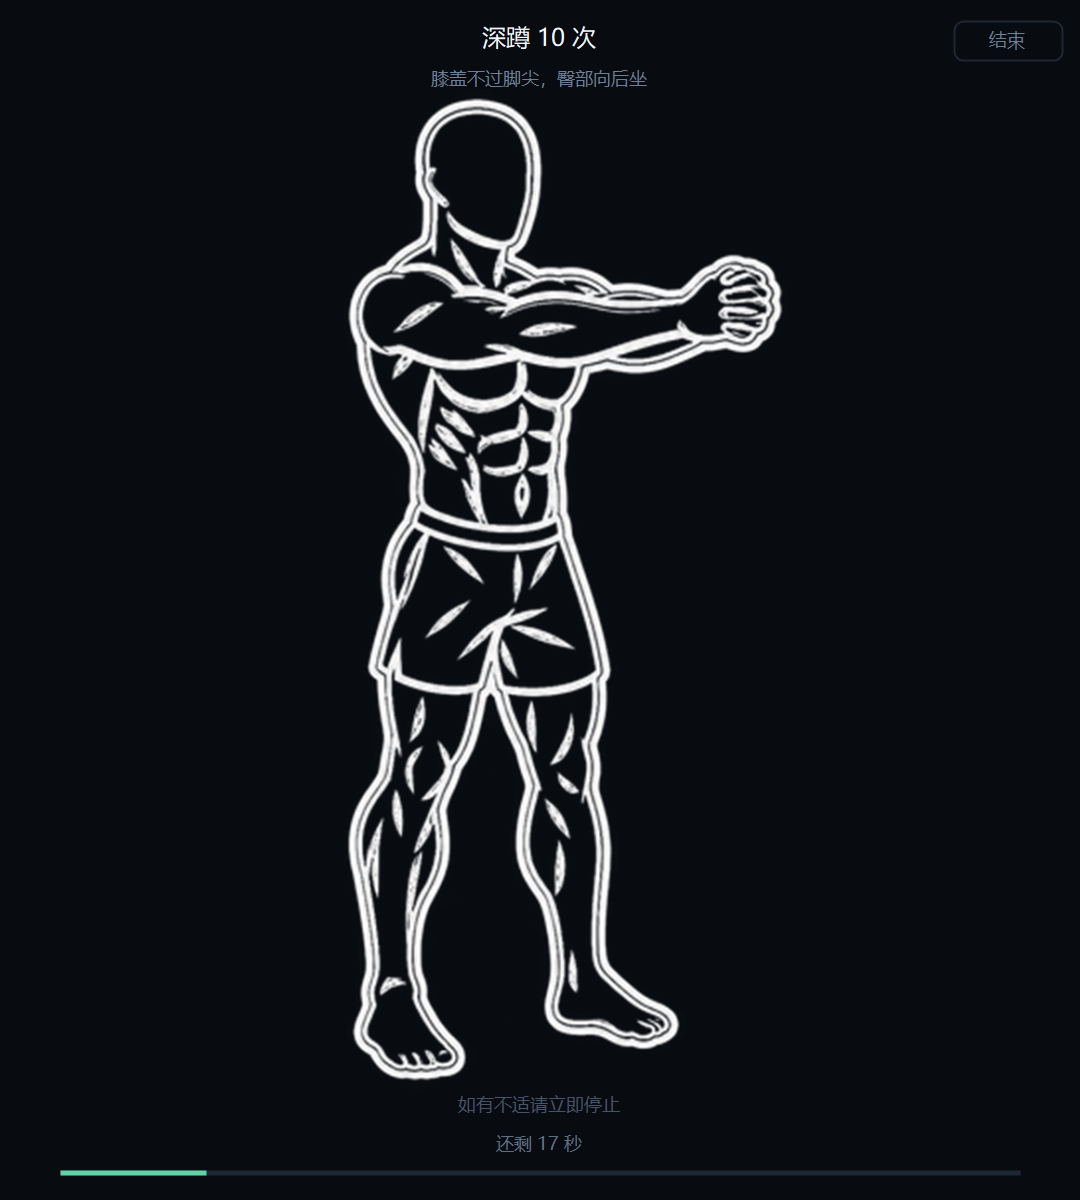
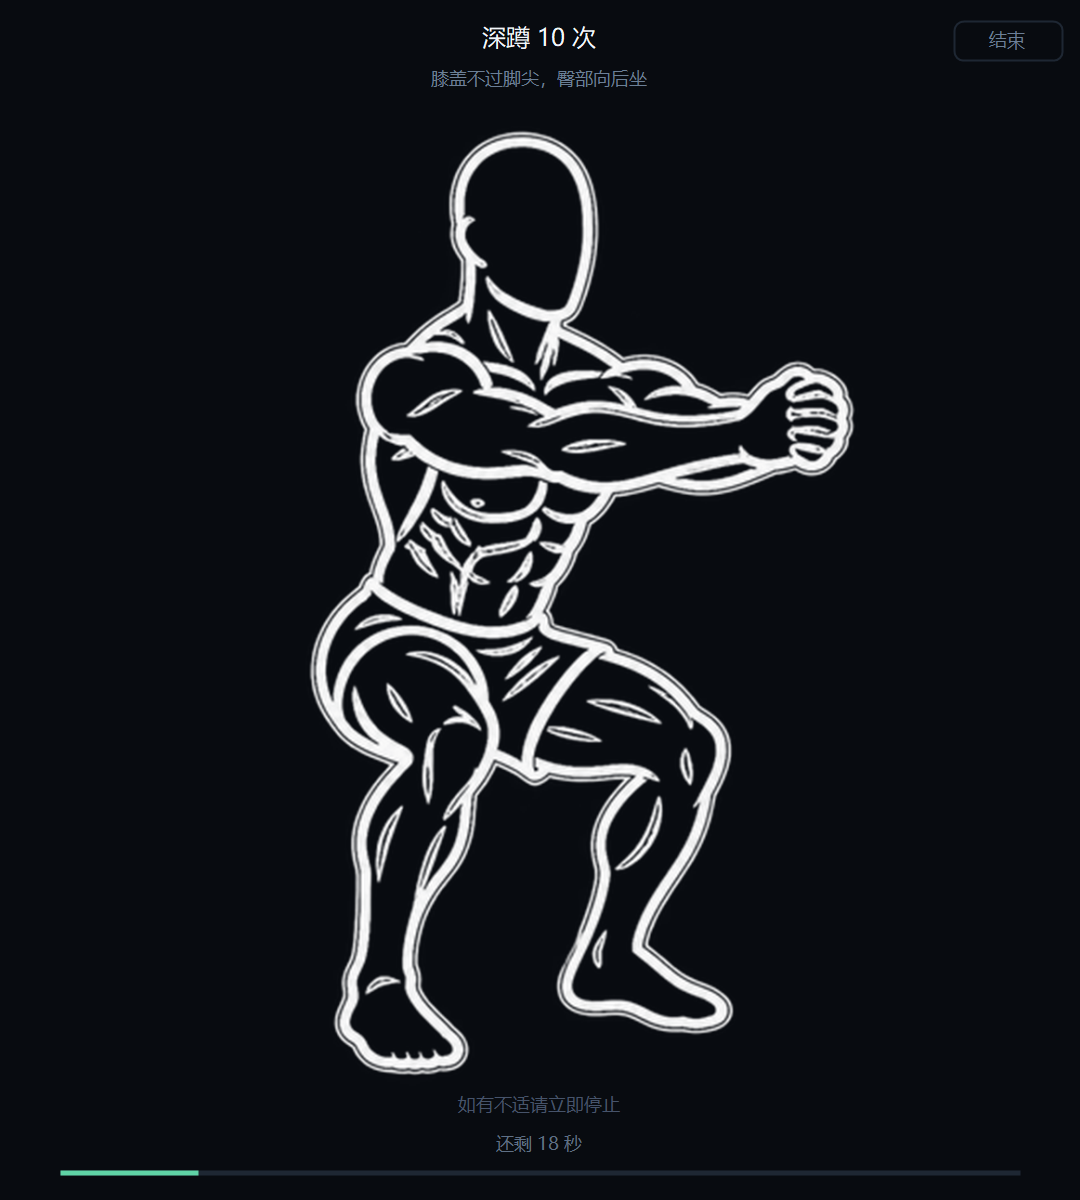
fix(move): 自绘人形按"身高比例"重做，修掉放大后"大球挂牙签"的观感
放大到 2 倍后自绘人形的比例崩了（用户/lead 截图反馈）：
  头部直径 ≈ 150px（占身高 15%）、肩宽 0、髋宽 0、线宽只有 7px ——
  观感是"一个巨大的圆球挂在几根牙签上"。
根因：各段长度是**固定像素**（torso 78 / thigh 70 / headR 22…），
按窗口高度放大 2.4 倍时头也跟着放大，而线宽只是从 3px 到 7px，两者不同步。

改法：把人体比例也做成"单一来源"——全部以身高 H 为基准（与纵向布局同一套思路）：
  头直径 H×0.13（约 7.5 头身）、颈 H×0.04、肩宽 H×0.055（半距）、
  髋宽 H×0.035（半距）、躯干 H×0.32、上臂 H×0.155、前臂 H×0.145、
  大腿 H×0.245、小腿 H×0.235、线宽 H×0.018、关节半径 H×0.012。
  合计 0.48+0.32+0.04+0.13 = 0.97 → 头顶留 3% 余量，永远在要点文字下方。

新增的形体（原来根本没有）：
  · **左右肩点**：两臂各从自己的肩点出发，中间连一条肩宽线；
  · **左右髋点**：两腿各从自己的髋点出发，中间连一条髋宽线；
  · **颈**：肩点 → 头下缘的一段。
  这三条让"三点一线"变成"有肩有髋"，是这次观感变化的主要来源。

顺带：LayoutBottomChrome 80 → 84。线宽现在按身高走，脚底那一笔有 ~8px 半宽，
80 会让脚压到「如有不适请立即停止」那行（实测提示行区间出现白像素）。

实测（EyeLite-dev.exe，PrintWindow，1080x1200）：
  自绘  人形 y=130..1082 高 952 = **79.3%** ｜ 头顶距要点 34px ｜
        **头部直径 125px = 13.2% 身高**（目标 13%）｜ 提示行白像素 **0**
  素材  深蹲帧 77.3%（下蹲帧本来矮），脚距地面 7px
  两条路径站立高度接近；肩宽 104px、髋宽 66px（都是 H 的固定比例）

证据：docs/screenshots/_size-2x-drawn.png（自绘）、_size-2x-asset.png（素材）已覆盖更新

产物：EyeLite.exe 未重编（用户在跑），只出 dev 版验证

Changed region(s): [[0.275, 0.0617, 0.7944, 0.925]]

diff --git a/src/Program.cs b/src/Program.cs
@@ -2914,7 +2914,9 @@ namespace EyeLite
         // （这个坑 720x640 那次已经踩过一次：地面从 Sc(316) 挪到 Sc(512)，提示行留在 Sc(392) 压住了腿）。
         private const int LayoutTipsBottom = 64;   // 要点文字底边（标题 14..42 + 要点 44..64）
         private const int LayoutFigTop = 66;       // 人形可用上边界：要点下面 2px
-        private const int LayoutBottomChrome = 80; // 地面线到底边：提示(18)+倒计时(18)+进度条(6)+间距
+        private const int LayoutBottomChrome = 84; // 地面线到底边：提示(18)+倒计时(18)+进度条(6)+间距
+                                                   // 88 而不是 80：人形线宽现在按身高走（18%），
+                                                   // 脚底那笔有 ~8px 半宽，80 会让脚压到「如有不适」那行。
 
         /// <summary>脚底的 y（"地面线"）。</summary>
         // 人形缩放系数：由 DrawFigure 每次绘制前按可用高度算出来，
@@ -3435,24 +3437,38 @@ namespace EyeLite
             int cx = w / 2;
             int groundY = FigGroundY();
 
-            // 人物总高 = 地面线 - 人物上边界（见 FigGroundY/FigHeight）。
-            // 基准模型在中立姿势下的总高 = 268 逻辑像素：
-            //   thigh 70 + shin 70 + torso 78 + 头直径 44 + 颈缝 6 = 268
-            // 各段统一乘 k，所以"窗口多高人形多高"；不再写死任何一段长度。
-            int figH = FigHeight();
-            double k = figH / (double)Sc(268);
-            if (k < 0.2) k = 0.2;
-            figK = k;
+            // ============================================================
+            // 人体比例：全部以「身高 H」为基准（单一来源），不再写死像素段长。
+            // ============================================================
+            //
+            // 为什么必须这样改：原来各段是固定像素（torso 78 / thigh 70 / headR 22…），
+            // 按窗口高度放大 2.4 倍后，头变成 150px，而线宽只从 3px 到 7px ——
+            // 观感就是「一个大球挂在几根牙签上」。素材图看着正常，正因为它自带真实比例。
+            //
+            // 系数按「约 7.5 头身」定：头占身高 13%、腿 48%、躯干 32%、颈 4%，
+            // 合计 0.97 → 头顶留 3% 余量，保证头顶永远在要点文字下方。
+            int H = FigHeight();
+            if (H < 40) H = 40;
 
-            int lenTorso = Sf(78);
-            int lenArm = Sf(56);
-            int lenFore = Sf(48);
-            int lenThigh = Sf(70);
-            int lenShin = Sf(70);
-            int headR = Sf(22);
+            int headR = (int)Math.Round(H * 0.065);        // 头直径 = 13% 身高
+            int neckLen = (int)Math.Round(H * 0.04);       // 颈
+            int halfShoulder = (int)Math.Round(H * 0.055); // 肩宽半距
+            int halfHip = (int)Math.Round(H * 0.035);      // 髋宽半距
+            int lenTorso = (int)Math.Round(H * 0.32);
+            int lenArm = (int)Math.Round(H * 0.155);
+            int lenFore = (int)Math.Round(H * 0.145);
+            int lenThigh = (int)Math.Round(H * 0.245);
+            int lenShin = (int)Math.Round(H * 0.235);
 
-            // 下蹲：髋往下沉、膝盖往前顶。用两条腿的关节角度表达会更"真"，
-            // 但对火柴人来说"髋高 + 膝点偏移"就足够读懂，且不会算错。
+            // 线宽 / 关节尺寸也按身高走：放 2 倍时线要跟着粗，否则像铁丝
+            float penW = Math.Max(1.5f, (float)(H * 0.018));
+            float jointR = Math.Max(2f, (float)(H * 0.012));
+
+            // Sf() 供 DrawLeg 里的抬腿/外展偏移使用，基准同步成身高
+            figK = H / (double)Sc(268);
+            if (figK < 0.2) figK = 0.2;
+
+            // 下蹲：髋往下沉，位移量按腿长比例
             int crouchPx = (int)(lenThigh * 0.34 * p.Crouch);
             PointF hip = new PointF(cx, groundY - lenThigh - lenShin + crouchPx);
 
@@ -3461,17 +3477,26 @@ namespace EyeLite
                 (float)(hip.X + Math.Sin(torsoRad) * lenTorso),
                 (float)(hip.Y - Math.Cos(torsoRad) * lenTorso));
 
+            // 头：肩点沿躯干轴再往上「颈 + 半个头」
             PointF head = new PointF(
-                (float)(shoulder.X + Math.Sin(torsoRad) * (headR + Sf(6)) + p.HeadSway * Sf(14)),
-                (float)(shoulder.Y - Math.Cos(torsoRad) * (headR + Sf(6))));
+                (float)(shoulder.X + Math.Sin(torsoRad) * (neckLen + headR) + p.HeadSway * H * 0.02),
+                (float)(shoulder.Y - Math.Cos(torsoRad) * (neckLen + headR)));
 
-            using (Pen body = new Pen(Ui.TimeText, Math.Max(1f, (float)(Sc(3) * figK))))
+            // 左右肩点 / 左右髋点：这是「有肩宽、有髋宽」的来源。
+            // 原来两臂从同一个脊椎顶点岔开、两腿从同一个点并拢，放大后就是「三点一线」。
+            float perpX = (float)Math.Cos(torsoRad);
+            PointF shoulderL = new PointF(shoulder.X - perpX * halfShoulder, shoulder.Y);
+            PointF shoulderR = new PointF(shoulder.X + perpX * halfShoulder, shoulder.Y);
+            PointF hipL = new PointF(hip.X - halfHip, hip.Y);
+            PointF hipR = new PointF(hip.X + halfHip, hip.Y);
+
+            using (Pen body = new Pen(Ui.TimeText, penW))
             using (SolidBrush headBrush = new SolidBrush(Ui.TimeText))
             using (SolidBrush jointBrush = new SolidBrush(Ui.Accent))
             using (Pen ground = new Pen(Ui.RingTrack, Math.Max(1f, Sc(2))))
             {
                 // 关节处必须是圆头圆角：动作幅度一大（手臂过头、前臂 -70）之后，
-                // 平的线端会在肩/肘/膝留下明显的尖角缺口，看起来像"骨折"。
+                // 平的线端会在肩/肘/膝留下明显的尖角缺口，看起来像「骨折」。
                 body.StartCap = LineCap.Round;
                 body.EndCap = LineCap.Round;
                 body.LineJoin = LineJoin.Round;
@@ -3479,26 +3504,35 @@ namespace EyeLite
                 // 地面
                 g.DrawLine(ground, Sc(60), groundY, w - Sc(60), groundY);
 
-                // 腿
-                PointF kneeL = DrawLeg(g, body, hip, groundY, lenThigh, lenShin, p.Crouch, p.StepL, -1);
-                PointF kneeR = DrawLeg(g, body, hip, groundY, lenThigh, lenShin, p.Crouch, p.StepR, +1);
+                // 腿（各自从髋点出发）
+                PointF kneeL = DrawLeg(g, body, hipL, groundY, lenThigh, lenShin, p.Crouch, p.StepL, -1);
+                PointF kneeR = DrawLeg(g, body, hipR, groundY, lenThigh, lenShin, p.Crouch, p.StepR, +1);
 
-                // 躯干
+                // 髋宽线 + 躯干
+                g.DrawLine(body, hipL, hipR);
                 g.DrawLine(body, hip, shoulder);
 
-                // 手臂
-                DrawArm(g, body, shoulder, torsoRad, lenArm, lenFore, p.ArmL, p.ForeL, -1);
-                DrawArm(g, body, shoulder, torsoRad, lenArm, lenFore, p.ArmR, p.ForeR, +1);
+                // 肩宽线：给出「肩膀」的宽度感
+                g.DrawLine(body, shoulderL, shoulderR);
+
+                // 颈：肩点 → 头的下缘
+                g.DrawLine(body, shoulder,
+                    new PointF((float)(head.X - Math.Sin(torsoRad) * headR * 0.2),
+                               (float)(head.Y + Math.Cos(torsoRad) * headR * 0.85)));
+
+                // 手臂（各自从肩点出发）
+                DrawArm(g, body, shoulderL, torsoRad, lenArm, lenFore, p.ArmL, p.ForeL, -1);
+                DrawArm(g, body, shoulderR, torsoRad, lenArm, lenFore, p.ArmR, p.ForeR, +1);
 
                 // 头
                 g.FillEllipse(headBrush, head.X - headR, head.Y - headR, headR * 2, headR * 2);
 
-                // 关节（髋 / 肩 / 膝）
-                float jr = Math.Max(1.5f, (float)(Sc(3) * figK));
-                g.FillEllipse(jointBrush, hip.X - jr, hip.Y - jr, jr * 2, jr * 2);
-                g.FillEllipse(jointBrush, shoulder.X - jr, shoulder.Y - jr, jr * 2, jr * 2);
-                g.FillEllipse(jointBrush, kneeL.X - jr, kneeL.Y - jr, jr * 2, jr * 2);
-                g.FillEllipse(jointBrush, kneeR.X - jr, kneeR.Y - jr, jr * 2, jr * 2);
+                // 关节（髋 / 双肩 / 双膝）
+                g.FillEllipse(jointBrush, hip.X - jointR, hip.Y - jointR, jointR * 2, jointR * 2);
+                g.FillEllipse(jointBrush, shoulderL.X - jointR, shoulderL.Y - jointR, jointR * 2, jointR * 2);
+                g.FillEllipse(jointBrush, shoulderR.X - jointR, shoulderR.Y - jointR, jointR * 2, jointR * 2);
+                g.FillEllipse(jointBrush, kneeL.X - jointR, kneeL.Y - jointR, jointR * 2, jointR * 2);
+                g.FillEllipse(jointBrush, kneeR.X - jointR, kneeR.Y - jointR, jointR * 2, jointR * 2);
             }
         }
 
